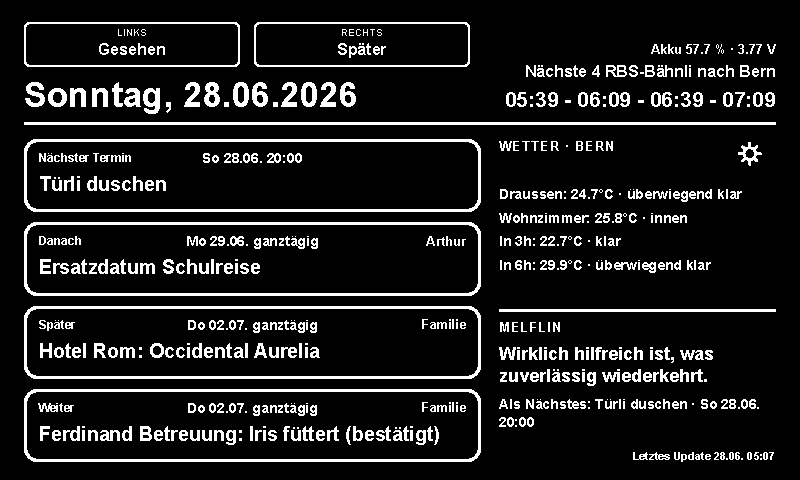
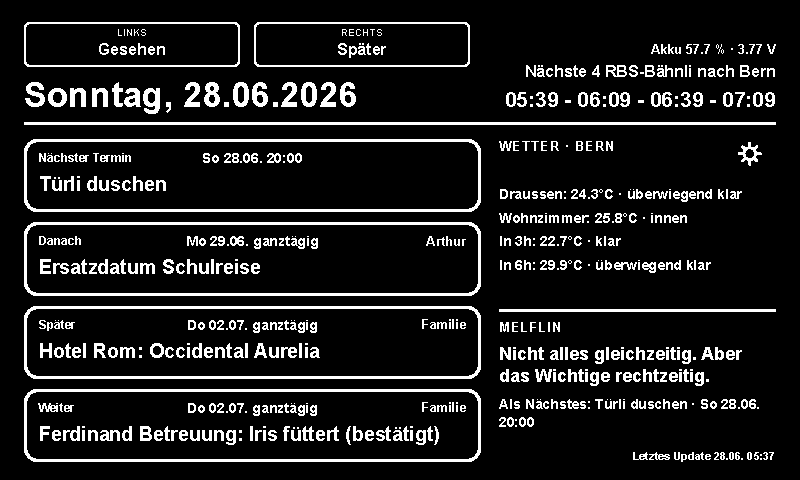
Refresh published display pages

Changed region(s): [[0.625, 0.7188, 0.9375, 0.8125]]

diff --git a/static/melflin-display/index.html b/static/melflin-display/index.html
@@ -104,16 +104,16 @@
       <div class='side'>
         <div class='panel panel-weather'>
           <div class='panel-head'><h2>Wetter · Bern</h2><div class='weather-icons'><div class='weather-icon' aria-label='Wetter'><svg viewBox='0 0 64 64' aria-hidden='true'><g fill='none' stroke='#111' stroke-width='3.8' stroke-linecap='round' stroke-linejoin='round'><circle cx='24' cy='24' r='9'/><path d='M24 8v6M24 34v6M8 24h6M34 24h6M13 13l4 4M31 31l4 4M13 35l4-4M31 17l4-4'/></g></svg></div></div></div>
-          <div class='subline'>Draussen: 24.7°C · überwiegend klar</div><div class='subline'>Wohnzimmer: 25.8°C · innen</div><div class='subline'>In 3h: 22.7°C · klar</div><div class='subline'>In 6h: 29.9°C · überwiegend klar</div>
+          <div class='subline'>Draussen: 24.3°C · überwiegend klar</div><div class='subline'>Wohnzimmer: 25.8°C · innen</div><div class='subline'>In 3h: 22.7°C · klar</div><div class='subline'>In 6h: 29.9°C · überwiegend klar</div>
         </div>
         <div class='panel'>
           <h2>Melflin</h2>
-          <div class='note'>Wirklich hilfreich ist, was zuverlässig wiederkehrt.</div>
+          <div class='note'>Nicht alles gleichzeitig. Aber das Wichtige rechtzeitig.</div>
           <div class='note-secondary'>Als Nächstes: Türli duschen · So 28.06. 20:00</div>
         </div>
       </div>
     </div>
-    <div class='update-stamp'>Letztes Update 28.06. 05:07</div>
+    <div class='update-stamp'>Letztes Update 28.06. 05:37</div>
   </div>
   <script>
     (() => {

diff --git a/public/melflin-display/family/index.html b/public/melflin-display/family/index.html
@@ -96,7 +96,7 @@
         </div>
         </div>
     </div>
-    <div class='update'>Letztes Update 28.06. 05:07</div>
+    <div class='update'>Letztes Update 28.06. 05:37</div>
   </div>
 </body>
 </html>

diff --git a/static/melflin-display/family.html b/static/melflin-display/family.html
@@ -96,7 +96,7 @@
         </div>
         </div>
     </div>
-    <div class='update'>Letztes Update 28.06. 05:07</div>
+    <div class='update'>Letztes Update 28.06. 05:37</div>
   </div>
 </body>
 </html>

diff --git a/static/melflin-display/family/index.html b/static/melflin-display/family/index.html
@@ -96,7 +96,7 @@
         </div>
         </div>
     </div>
-    <div class='update'>Letztes Update 28.06. 05:07</div>
+    <div class='update'>Letztes Update 28.06. 05:37</div>
   </div>
 </body>
 </html>